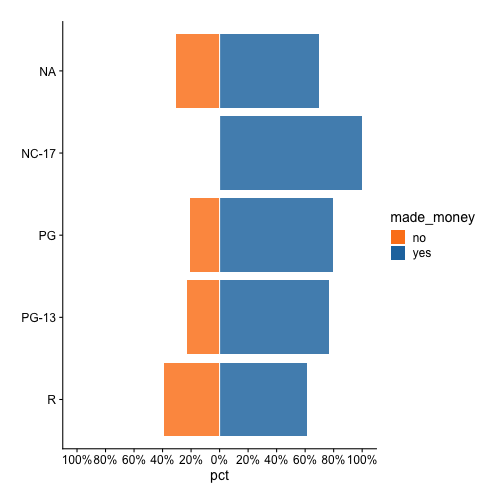
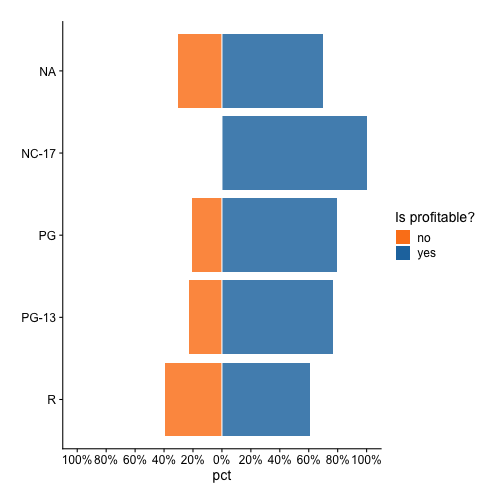
update 04-04-xxx

diff --git a/manuscript/04-04-likertplot.md b/manuscript/04-04-likertplot.md
@@ -28,8 +28,8 @@ to show percent instead of count.
 
 A>
 ```r
-plt("pct", "mpaa", fillby = "made_money", 
-    fillby_lvls = c("no", "yes"), x_as_pct = T)
+plt("pct", "mpaa", fillby = "made_money", fillby_lvls = c("no", "yes"), 
+    legend_title = "Is profitable?", x_as_pct = T)
 ```
 
 ![Percents of Profitable vs. Unprofitable Films for each MPAA rating](images/likert_mpaa_pct-1.png)
@@ -52,11 +52,11 @@ A>
 ```
   item slope       type spp sppInv
 1    A North     native   2      2
-2    B North     native   6      6
-3    C North     native   6      6
-4    D North     native  11     11
+2    B North     native   5      5
+3    C North     native   5      5
+4    D North     native   3      3
 5    E North     native   6      6
-6    A North introduced   5     -5
+6    A North introduced   7     -7
 ```
 A>
 ```r
@@ -65,12 +65,12 @@ tail(df)
 A>
 ```
    item slope       type spp sppInv
-15    E South     native   5      5
-16    A South introduced   9     -9
-17    B South introduced   6     -6
-18    C South introduced   7     -7
-19    D South introduced   3     -3
-20    E South introduced   5     -5
+15    E South     native   7      7
+16    A South introduced   3     -3
+17    B South introduced   4     -4
+18    C South introduced   6     -6
+19    D South introduced   2     -2
+20    E South introduced   3     -3
 ```
 
 Let's focus on North for now and ignore South. 
@@ -86,7 +86,8 @@ each `item`.
 
 A>
 ```r
-plt("sppInv", "item", fillby = "type", fillby_lvls = c("introduced", "native"))
+plt("sppInv", "item", fillby = "type", fillby_lvls = c("introduced", "native"),
+    legend_pos = "top")
 ```
 
 ![sppInv by type for each item](images/likert_north_sppInv-1.png)
@@ -96,7 +97,8 @@ chart to show the values of `spp` by `type` for each `item`.
 
 A>
 ```r
-plt("spp", "item", fillby = "type", fillby_lvls = c("introduced", "native"))
+plt("spp", "item", fillby = "type", fillby_lvls = c("introduced", "native"),
+    legend_pos = "bottom")
 ```
 
 ![spp by type for each item](images/likert_north_spp-1.png)
